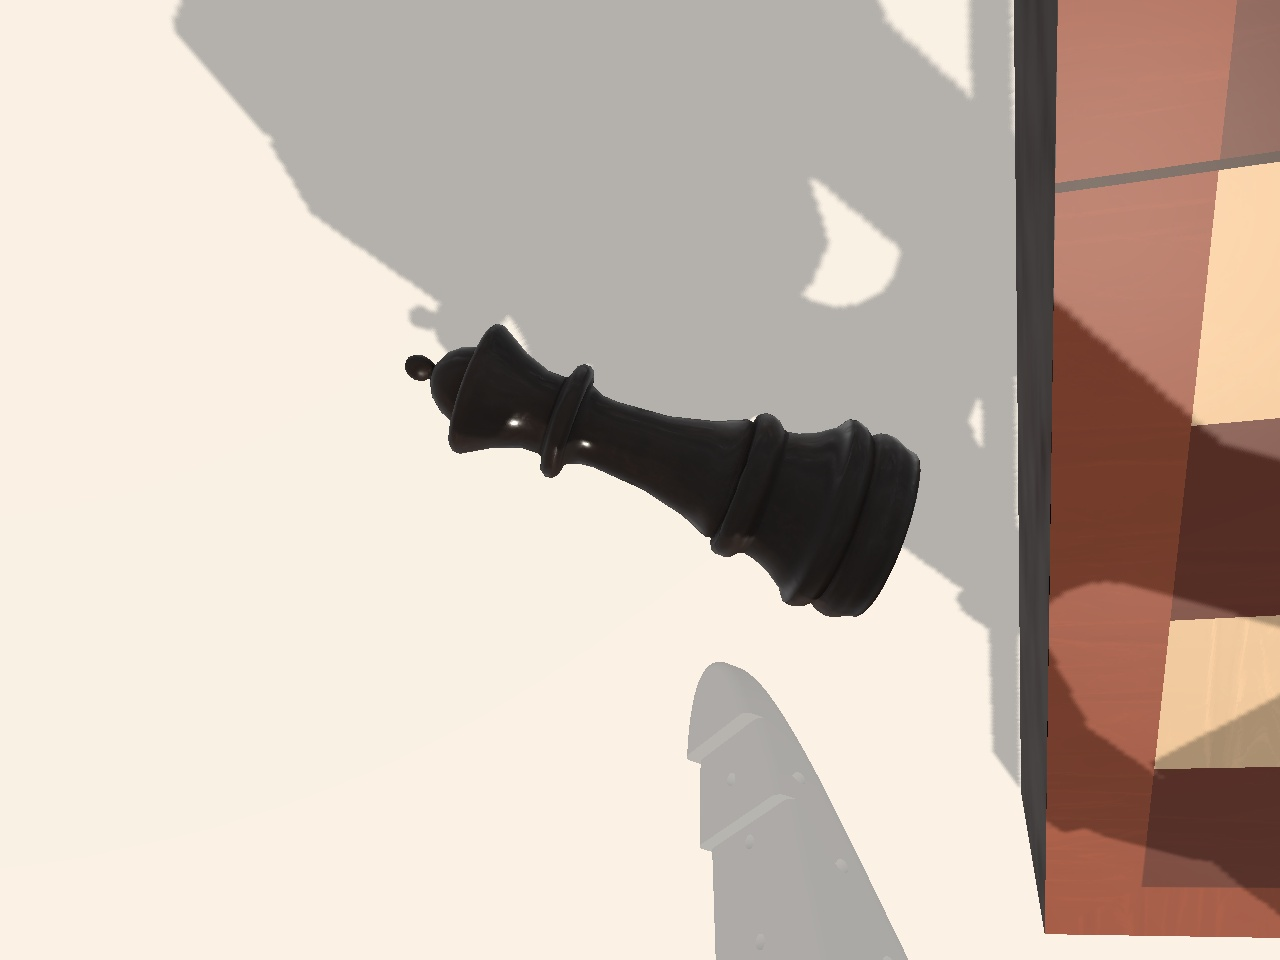
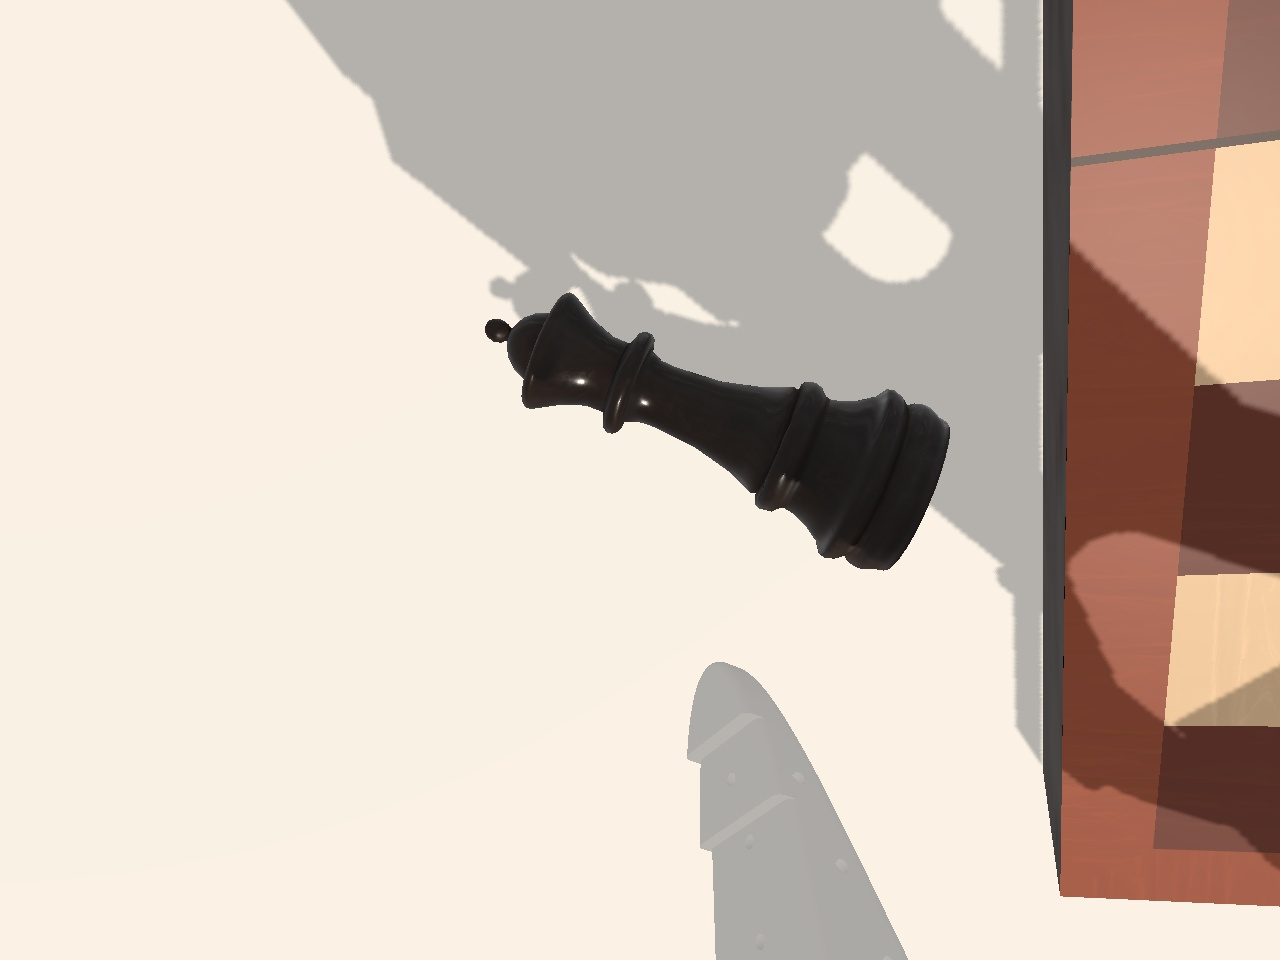
Revert "Lower so101-real's shoulder 4° while the arm hangs free far out"
This reverts commit bb1e1c290df4d3ae0367786a633a43dae5c498a3.

Changed region(s): [[0.125, 0.0, 1.0, 1.0], [0.625, 0.1562, 0.75, 0.3438]]

diff --git a/examples/so101-real/servo.ts b/examples/so101-real/servo.ts
@@ -53,22 +53,15 @@ export interface ServoJoint {
   friction: boolean;
 }
 
-/** How the links are loaded: what bends them away from the readings. */
-export interface Loading {
-  /** The torques, N·m, the joints pass on to their links. */
-  torques: readonly number[];
-  /**
-   * For each joint, how much of the torque holding its links up against gravity it carries
-   * itself: 1 with the arm hanging free, 0 with the gripper resting on something.
-   */
-  hanging: readonly number[];
-}
-/** The hidden map between readings and true joint angles, both in a joint order. */
+/**
+ * The hidden map between readings and true joint angles, both in a joint order, given the
+ * torques, N·m, the joints pass on to their links.
+ */
 export interface Calibration {
   /** True joint angles, radians, for readings. */
-  angles(readings: readonly number[], loading: Loading): number[];
+  angles(readings: readonly number[], torques: readonly number[]): number[];
   /** Readings for true joint angles. */
-  readings(angles: readonly number[], loading: Loading): number[];
+  readings(angles: readonly number[], torques: readonly number[]): number[];
 }
 /** How fast the bending follows the link torque, s: it also keeps the P loop through it stable. */
 const BENDING = 0.05;
@@ -93,14 +86,13 @@ export class ServoBus {
   readonly events: ((message: string) => void)[] = [];
   readonly joints: readonly ServoJoint[];
   readonly calibration: Calibration;
-  private readonly linkTorques: () => { total: number[]; gravity: number[] };
-  /** The link torques, N·m, as the bending has followed them, total and against gravity. */
+  private readonly linkTorques: () => number[];
+  /** The link torques, N·m, as the bending has followed them. */
   torques?: number[];
-  private gravity?: number[];
   constructor(
     joints: readonly ServoJoint[],
     calibration: Calibration,
-    linkTorques: () => { total: number[]; gravity: number[] },
+    linkTorques: () => number[],
   ) {
     this.joints = joints;
     this.calibration = calibration;
@@ -168,12 +160,10 @@ export class ServoBus {
   beforeStep(_time: number, dt: number): void {
     const { angles } = this.measure();
     const now = this.linkTorques();
-    const follow = (was: number[] | undefined, to: number[]) =>
-      (was ?? to).map((t, i) => t + (to[i]! - t) * Math.min(1, dt / BENDING));
-    this.torques = follow(this.torques, now.total);
-    this.gravity = follow(this.gravity, now.gravity);
-    const loading = this.loading();
-    const present = this.calibration.readings(angles, loading);
+    this.torques ??= now;
+    const torques = this.torques.map((t, i) => t + (now[i]! - t) * Math.min(1, dt / BENDING));
+    this.torques = torques;
+    const present = this.calibration.readings(angles, torques);
     // On power-up the servos hold where they are, as LeRobot's connect does.
     if (!this.states.length)
       for (const reading of present)
@@ -187,7 +177,7 @@ export class ServoBus {
     // The goal as a true angle, were the link to bend as it does now: the P law on the reading.
     const goals = this.calibration.angles(
       this.states.map((s) => s.goal),
-      loading,
+      torques,
     );
     const base = 16 * STIFFNESS_PER_P;
     this.joints.forEach(({ torqueLimit }, i) => {
@@ -209,17 +199,6 @@ export class ServoBus {
       if (drive.target?.position !== position) drive.setTarget({ position });
     });
   }
-  /** The links' loading now; unloaded before the first step. */
-  loading(): Loading {
-    const torques = this.torques ?? this.joints.map(() => 0);
-    const gravity = this.gravity ?? torques;
-    return {
-      torques,
-      hanging: torques.map((t, i) =>
-        Math.abs(gravity[i]!) < 1e-3 ? 1 : Math.min(1, Math.max(0, t / gravity[i]!)),
-      ),
-    };
-  }
   /** The arm held its pose all through a pause between turns. */
   resumed(wallSeconds: number): void {
     this.states.forEach((_, i) => this.heat(i, Math.min(PAUSE, wallSeconds)));
@@ -239,7 +218,7 @@ export class ServoBus {
     if (time - this.last < 0.02 - 1e-9) return;
     this.last = time;
     const { angles, velocities } = this.measure();
-    const readings = this.calibration.readings(angles, this.loading());
+    const readings = this.calibration.readings(angles, this.torques ?? angles.map(() => 0));
     const units = this.joints.map((j) => j.unitsPerDegree);
     this.ros.publish("/follower/joint_states", "sensor_msgs/msg/JointState", {
       header: header(time, ""),

diff --git a/examples/so101-real/calibration.ts b/examples/so101-real/calibration.ts
@@ -50,32 +50,19 @@ const REFERENCE = [0, -0.54, -0.42, 0, 0];
 /** Zero errors with the links unloaded: true = reading + offset − bending·torque. */
 const OFFSET = FITTED.map((f, i) => f + BENDING[i]! * REFERENCE[i]!);
 
-/**
- * What the bending does not explain: hanging free far out, the real shoulder sits about 4° lower
- * than the calibrated model says (the near-table photos of §5; D). It ramps in with the lift
- * reading from 5° to 35° and only while the arm hangs: it fades as the gripper comes to rest on
- * the table, board or queen.
- */
-const HANGING = [0, 4, 0, 0, 0];
-const share = (lift: number) => Math.min(1, Math.max(0, (lift - 5) / 30));
-
 export const calibration: Calibration = {
-  angles(readings, { torques, hanging }) {
-    const g = share(readings[1]!) * hanging[1]!;
+  angles(readings, torques) {
     return readings.map((r, i) =>
       i === 5
         ? GRIPPER_CLOSED + (r / 100) * GRIPPER_TRAVEL
-        : (r + OFFSET[i]! - BENDING[i]! * torques[i]! + g * HANGING[i]!) * deg,
+        : (r + OFFSET[i]! - BENDING[i]! * torques[i]!) * deg,
     );
   },
-  readings(angles, { torques, hanging }) {
-    const plain = angles.map((a, i) => a / deg - OFFSET[i]! + BENDING[i]! * torques[i]!);
-    // The shoulder's reading decides the hanging term: solve for it by fixed-point iteration.
-    let lift = plain[1]!;
-    for (let k = 0; k < 8; k++) lift = plain[1]! - share(lift) * hanging[1]! * HANGING[1]!;
-    const g = share(lift) * hanging[1]!;
+  readings(angles, torques) {
     return angles.map((a, i) =>
-      i === 5 ? ((a - GRIPPER_CLOSED) / GRIPPER_TRAVEL) * 100 : plain[i]! - g * HANGING[i]!,
+      i === 5
+        ? ((a - GRIPPER_CLOSED) / GRIPPER_TRAVEL) * 100
+        : a / deg - OFFSET[i]! + BENDING[i]! * torques[i]!,
     );
   },
 };

diff --git a/examples/so101-real/load.ts b/examples/so101-real/load.ts
@@ -19,22 +19,20 @@ export interface Link {
 
 /**
  * For each joint, the torque about its axis, N·m, the joint exerts on its link to hold `beyond`
- * (that joint's link and every link after it) still against gravity and outside contacts, and
- * the part of it that holds them against gravity alone.
+ * (that joint's link and every link after it) still against gravity and outside contacts.
  */
 export function linkTorques(
   joints: readonly RevoluteJoint[],
   beyond: readonly (readonly Link[])[],
   robot: object,
-): { total: number[]; gravity: number[] } {
+): number[] {
   const world = getROS2().world;
   const frame = new Matrix4();
   const axis = new Vector3();
   const origin = new Vector3();
   const arm = new Vector3();
   const point = new Vector3();
-  const gravity: number[] = [];
-  const total = joints.map((joint, i) => {
+  return joints.map((joint, i) => {
     const parent = joint.options.body0!;
     parent.updateWorldMatrix(true, false);
     frame.multiplyMatrices(parent.matrixWorld, joint.options.frame0!);
@@ -45,9 +43,6 @@ export function linkTorques(
       body.updateWorldMatrix(true, false);
       point.copy(centre).applyMatrix4(body.matrixWorld);
       load += arm.subVectors(point, origin).cross(GRAVITY).multiplyScalar(mass).dot(axis);
-    }
-    gravity.push(-load);
-    for (const { body } of beyond[i]!) {
       for (const contact of world.contacts(body)) {
         if (contact.otherBody.parent === robot) continue;
         const force = contact.normal.clone().multiplyScalar(contact.force);
@@ -56,5 +51,4 @@ export function linkTorques(
     }
     return -load;
   });
-  return { total, gravity };
 }

diff --git a/examples/so101-real/FIDELITY.md b/examples/so101-real/FIDELITY.md
@@ -19,11 +19,7 @@ All runs use seed 0, the measured scene. Status: ✅ reproduced, ◐ partly, ✗
   in the air bends it a little more than there. Resting it on the table unbends it: the link sits
   higher than its readings suggest, and pressing harder moves the readings without moving the
   link. Friction does not bend the link, so a 3° goal step at rest changes the load but not the
-  reading (§2). One more term: while the arm hangs free far out, the shoulder sits 4° lower than
-  the model says. It ramps in with the lift reading from 5° to 35° and scales with the share of
-  its gravity torque the shoulder carries itself (1 in free air, 0 with the gripper resting on
-  something). 4° fits the four near-table free-air photos best (`fit.py`: 75.3 → 70.3 px rms,
-  flat from 3° to 5°). The +65° roll offset is invisible to a roll-0 camera calibration (LeRobot's roll
+  reading (§2). The +65° roll offset is invisible to a roll-0 camera calibration (LeRobot's roll
   zero is the middle of a full turn, so arbitrary). It puts the jaws where the real photos show
   them.
 - **Servos** (`servo.ts`): P-only, torque = K(goal − present) capped at stall (2.94 N·m; gripper
@@ -54,7 +50,7 @@ All runs use seed 0, the measured scene. Status: ✅ reproduced, ◐ partly, ✗
 | Intrinsics 1280×960, f = 1061, centred | ✅ | `robot.ts`; CameraInfo k = [1061, 0, 640, 0, 1061, 480] |
 | Calibrated mount, jaws bottom-centre, fixed tip ≈ (710–735, 650–670) px | ✅ | `cmp-01-wrist40.jpg`, `cmp-03-pan-30.jpg`: black jaw left of white, as in the real images; projected fixed tip ≈ (735, 670) |
 | Views in the calibration region | ✅ | `cmp-03-pan-30.jpg`: board corner within ≈40 px; `cmp-01-wrist40.jpg` board rows within ≈40 px |
-| Views near the table (§5 poses) | ◐ | `cmp-26-view.jpg`, `cmp-30-sA/sB.jpg`, `cmp-20-pre.jpg`: same content and layout; feature residuals 70 px rms with the hanging term, 75 px without (queen 30–110 px, board edge 50–175 px; the board's measured pose limits the fit) |
+| Views near the table (§5 poses) | ◐ | `cmp-26-view.jpg`, `cmp-30-sA/sB.jpg`, `cmp-20-pre.jpg`: same content and layout, but the sim camera sits higher than the real one: the real arm hangs ≈3.5° of shoulder lower in these free-air poses than the calibrated model says (fitting the photos alone, `fit.txt`), which the bending does not produce (see D below) |
 | Calibration only valid at roll ±20° (§6.7) | ◐ | The roll offset makes any roll-0 calibration wrong about where the jaws are; views at other rolls are off by about as much as at roll 0 (see the previous row), so the solver's own calibration will degrade there. Not separately modelled. |
 | Magenta cast, libcamera | ✗ skipped | Not relevant to the task |
 
@@ -66,10 +62,10 @@ P=16. *Reached*: goals nudged until the readings match, like the real sag correc
 
 | Event | Real | Sim | Status |
 | --- | --- | --- | --- |
-| B (−46.5, 53.3, −49.0, 83.2, −64.7) | fixed jaw on table at these readings; model −0.3 cm | reached: on the table (0.04 cm) at (53.5, −49.3); plain: on the table at (53.6, −43.9) | ✅ |
-| C (−48.7, 48.8, −44.7, 83.0, −71.7) | on table again; model +0.6 | reached: on the table (0.03 cm) at (49.0, −45.3); plain: on the table at (49.6, −39.7) | ✅ |
-| D (−48.7, 34.8, −36.0, 83.2, −71.7) after "up 4 cm" from C | ≈0.5 cm above the table (by eye); model +4.5; the commanded 3.9 cm lift was really 0.5–1 cm | at D's readings (reached, free air): **2.66 cm**; plain from C (the real sequence): readings stop at (42.0, −36.4) under sag and friction, jaw still on the table (0.02 cm) | ◐ |
-| Descent at (−44.8, 37.5, −31.4, 82.5, −62.5) | jaw resting on the lying queen's base (≈2.9 cm) | reached: hangs free at 0.71 cm, the measured queen pose puts the base beside the jaw; at rest on something it would sit at 2.26 cm (the bending alone) | ◐ height right if supported, contact not |
+| B (−46.5, 53.3, −49.0, 83.2, −64.7) | fixed jaw on table at these readings; model −0.3 cm | reached: jaw on table (0.04 cm) at readings (53.4, −49.3); plain (P=16 sag): stops at lift 51.0, elbow −46.3, jaw 2.8 cm up | ✅ |
+| C (−48.7, 48.8, −44.7, 83.0, −71.7) | on table again; model +0.6 | reached: 0.54 cm at readings (48.8, −44.8); plain: on the table at (50.1, −39.7) | ✅ |
+| D (−48.7, 34.8, −36.0, 83.2, −71.7) after "up 4 cm" from C | ≈0.5 cm above the table (by eye); model +4.5; the commanded 3.9 cm lift was really 0.5–1 cm | plain from C (the real sequence): readings stop at (42.1, −36.2) under sag and friction, jaw **1.4 cm** above the table; at D's readings exactly (reached): **4.45 cm** | ◐ the lift from C comes out as small as on the real arm, but D's readings themselves leave the jaw 4 cm higher than observed |
+| Descent at (−44.8, 37.5, −31.4, 82.5, −62.5) | jaw resting on the lying queen's base (≈2.9 cm) | reached: jaw 2.26 cm above the table at (37.4, −31.5); the measured queen pose puts its base beside the jaw, not under it | ◐ height right, contact not |
 | Early test (0, −30.7, 93.4, 0, 0) | gripper pressed into table | elbow goal clamped to the calibrated 86.8°; tip 3.5 cm above table | ✗ (a reading beyond the calibrated range; unclear on hardware) |
 | Light contacts, low forces; load misses them | yes | every touch is logged on `/sim/audit` with links, duration, servo loads and its peak contact force (`world.contacts`); metrics `maxForce_table`, `_chessboard`, `_queen`. Plain touches 15 N, sag-corrected ones 24–45 N; the real forces were not measured | ✅ |
 | Contact force = weight at rest | — | queen standing on the table: 0.323 N = m·g (32.9 g), error 0 % (`weight.ts`) | ✅ |
@@ -110,15 +106,16 @@ the shoulder settled coming up from below, as the real holding load of 320–336
 Colour cast; load noise and the exact hysteresis shape; the real v47 gripper and camera mount
 geometry (CAD gripper used, camera board as a 25×24×12 mm box); queen mass beyond "tens of grams".
 
-## Open: D's remaining 2 cm
+## Open: D against B, C and the calibration
 
 D's 4 cm error was observed in free air, holding the arm's weight. The calibration poses are also
 in free air, and in the sim the shoulder and elbow carry about the same torque in both (lift
-−0.54 vs −0.6…−0.67 N·m, elbow −0.42 vs −0.35), so the bending cannot tell them apart. The
-hanging term adds 4° of shoulder far out in free air, fitted to the near-table photos, and lowers
-D from 4.45 to 2.66 cm. A 10° term would match D but makes the photos worse (85 px rms) and puts
-far-out free-air poses 4 cm low. So D's jaw stays ≈2 cm higher than the real arm's. D was judged
-by eye after a move up from the table; a measured free-air contact at lift ≈35° would settle it.
-Lifting off from C, the real arm gained 0.5–1 cm; the sim's plain command does not lift off at
-all, because sag and friction stop the readings 7° short and the hanging term lowers the link as
-it leaves the table.
+−0.54 vs −0.6…−0.67 N·m, elbow −0.42 vs −0.35). Any bending driven by that torque therefore moves
+D by about as much as it moves the calibration poses, where the fitted offsets have to hold.
+Bending stiff enough to lower D by 4 cm relative to them (≈60–90°/N·m) would move the readings by
+degrees whenever the queen is picked up or the jaw brushes the table. So the bending reproduces
+the contacts (B, C, Q) and the small lift-off from C, but not D's absolute height. The near-table
+free-air photos agree with D in direction (the real arm hangs ≈3.5° of shoulder lower than the
+model there). Something pose-dependent in free air remains unexplained. It could be the earlier
+lift-dependent shoulder term (`git show 9d9109a:examples/so101-real/calibration.ts`) at about
+3.5–10°, at the price of B, C and Q. A measured contact at lift ≈35° in free air would settle it.
